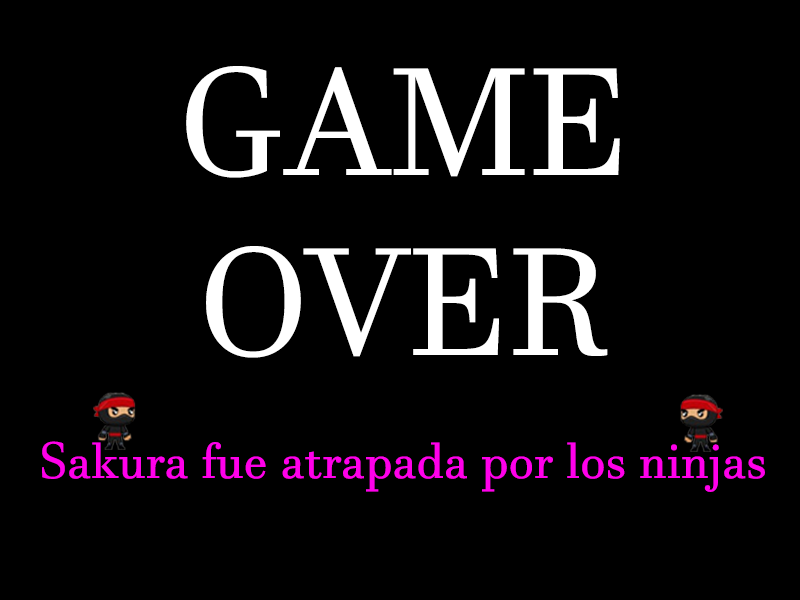
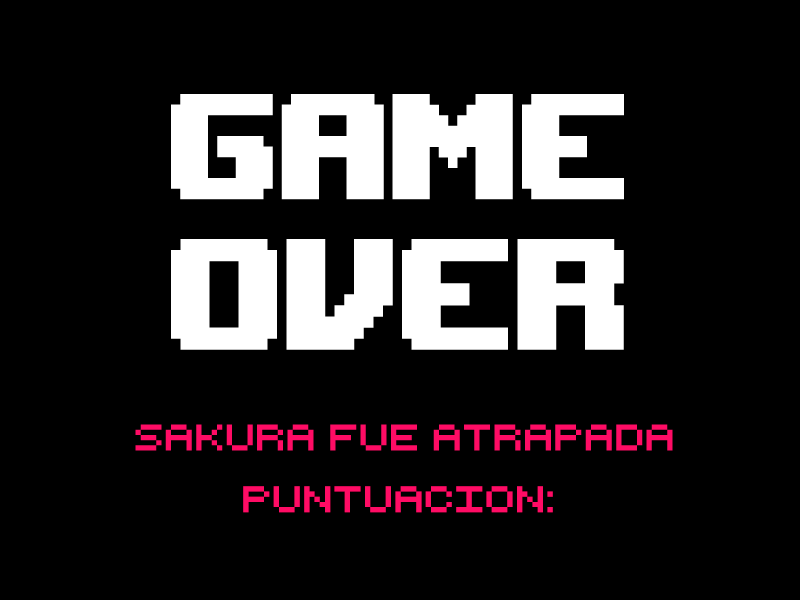
Change details

Changed region(s): [[0.0312, 0.63, 0.9688, 0.87], [0.1875, 0.09, 0.7812, 0.36], [0.1875, 0.39, 0.7812, 0.6]]

diff --git a/src/juego/Juego.java b/src/juego/Juego.java
@@ -15,12 +15,12 @@ public class Juego extends InterfaceJuego {
 	private Entorno entorno;
 	private Calle[] calles;
 	private Casa[] casas;
-	private Sakura sakura;
 	private Ninja[] ninjas;
+	private Sakura sakura;
 	private Rasengan rasengan;
 	private Casa casaDelPedido;
-	private int numeroCasaDelPedido;
-	private Random numeroRandom;
+	private int numCasaDelPedido;
+	private Random numRandom;
 	private int puntos;
 	private int ninjasEliminados;
 	private Image fondo;
@@ -69,94 +69,96 @@ public class Juego extends InterfaceJuego {
 
 		// Creacion de calles y casas
 		calles = new Calle[7];
-		int k = 0;
-		double xx = entorno.ancho() / 2;
-		int yy = entorno.alto() / 5;
-		int ancho = entorno.ancho();
-		int alto = 40;
+		int calle = 0;
+		double xCalle = entorno.ancho() / 2;
+		int yCalle = entorno.alto() / 5;
+		int anchoCalle = entorno.ancho();
+		int altoCalle = 40;
+
 		casas = new Casa[41];
+		int casa = 0;
 		int xCasa = 200;
 		int yCasa = 40;
-		int g = 0;
+		
 		for (int j = 0; j < calles.length; j++) {
-			calles[k++] = new Calle(xx, yy, ancho, alto);
+			calles[calle++] = new Calle(xCalle, yCalle, anchoCalle, altoCalle);
 
-			if (k == 1) {
-				yy = entorno.alto() / 2;
-				for (int c = 0; c < 3; c++) {
-					casas[g++] = new Casa(c, xCasa, yy - 230, Math.PI);
+			if (calle == 1) {
+				yCalle = entorno.alto() / 2;
+				for (int numCasa = 0; numCasa < 3; numCasa++) {
+					casas[casa++] = new Casa(numCasa, xCasa, yCalle - 230, Math.PI);
 					xCasa += 200;
 				}
 				xCasa = 200;
 				for (int d = 3; d < 6; d++) {
-					casas[g++] = new Casa(d, xCasa, yy - 50, Math.PI);
+					casas[casa++] = new Casa(d, xCasa, yCalle - 50, Math.PI);
 					xCasa += 200;
 				}
 				xCasa = 200;
 				for (int e = 6; e < 9; e++) {
-					casas[g++] = new Casa(e, xCasa, yy + 130, Math.PI);
+					casas[casa++] = new Casa(e, xCasa, yCalle + 130, Math.PI);
 					xCasa += 200;
 				}
 
 			}
-			if (k == 2) {
-				yy = entorno.alto() - entorno.alto() / 5;
+			if (calle == 2) {
+				yCalle = entorno.alto() - entorno.alto() / 5;
 			}
-			if (k == 3 || k == 4 || k == 5 || k == 6) {
+			if (calle == 3 || calle == 4 || calle == 5 || calle == 6) {
 
-				yy = entorno.alto() / 2;
-				ancho = 40;
-				alto = entorno.alto();
+				yCalle = entorno.alto() / 2;
+				anchoCalle = 40;
+				altoCalle = entorno.alto();
 
-				if (k == 3) {
-					xx = entorno.ancho() / 8;
+				if (calle == 3) {
+					xCalle = entorno.ancho() / 8;
 					for (int f = 9; f < 13; f++) {
-						casas[g++] = new Casa(f, xx - 50, yCasa, Math.PI / 2);
+						casas[casa++] = new Casa(f, xCalle - 50, yCasa, Math.PI / 2);
 						yCasa += 170;
 					}
 					yCasa = 40;
 					for (int h = 13; h < 17; h++) {
-						casas[g++] = new Casa(h, xx + 50, yCasa, Math.PI / 2);
+						casas[casa++] = new Casa(h, xCalle + 50, yCasa, Math.PI / 2);
 						yCasa += 170;
 					}
 					yCasa = 40;
 
 				}
-				if (k == 4) {
-					xx = entorno.ancho() / 2.66;
+				if (calle == 4) {
+					xCalle = entorno.ancho() / 2.66;
 					for (int l = 17; l < 21; l++) {
-						casas[g++] = new Casa(l, xx - 50, yCasa, Math.PI / 2);
+						casas[casa++] = new Casa(l, xCalle - 50, yCasa, Math.PI / 2);
 						yCasa += 165;
 					}
 					yCasa = 40;
 					for (int m = 21; m < 25; m++) {
-						casas[g++] = new Casa(m, xx + 50, yCasa, Math.PI / 2);
+						casas[casa++] = new Casa(m, xCalle + 50, yCasa, Math.PI / 2);
 						yCasa += 165;
 					}
 					yCasa = 40;
 				}
-				if (k == 5) {
-					xx = entorno.ancho() - entorno.ancho() / 2.66;
+				if (calle == 5) {
+					xCalle = entorno.ancho() - entorno.ancho() / 2.66;
 					for (int l = 25; l < 29; l++) {
-						casas[g++] = new Casa(l, xx - 50, yCasa, Math.PI / 2);
+						casas[casa++] = new Casa(l, xCalle - 50, yCasa, Math.PI / 2);
 						yCasa += 165;
 					}
 					yCasa = 40;
 					for (int m = 29; m < 33; m++) {
-						casas[g++] = new Casa(m, xx + 50, yCasa, Math.PI / 2);
+						casas[casa++] = new Casa(m, xCalle + 50, yCasa, Math.PI / 2);
 						yCasa += 165;
 					}
 					yCasa = 40;
 				}
-				if (k == 6) {
-					xx = entorno.ancho() - entorno.ancho() / 8;
+				if (calle == 6) {
+					xCalle = entorno.ancho() - entorno.ancho() / 8;
 					for (int q = 33; q < 37; q++) {
-						casas[g++] = new Casa(q, xx - 50, yCasa, Math.PI / 2);
+						casas[casa++] = new Casa(q, xCalle - 50, yCasa, Math.PI / 2);
 						yCasa += 165;
 					}
 					yCasa = 40;
 					for (int w = 37; w < 41; w++) {
-						casas[g++] = new Casa(w, xx + 50, yCasa, Math.PI / 2);
+						casas[casa++] = new Casa(w, xCalle + 50, yCasa, Math.PI / 2);
 						yCasa += 165;
 					}
 				}
@@ -165,9 +167,9 @@ public class Juego extends InterfaceJuego {
 			lineasCalle = Herramientas.cargarImagen("lineasCalle.png");
 			arboles = Herramientas.cargarImagen("arboles.png");
 		}
-		numeroRandom = new Random();
-		numeroCasaDelPedido = numeroRandom.nextInt(casas.length);
-		casaDelPedido = casas[numeroCasaDelPedido];
+		numRandom = new Random();
+		numCasaDelPedido = numRandom.nextInt(casas.length);
+		casaDelPedido = casas[numCasaDelPedido];
 		imagenGameOver = Herramientas.cargarImagen("gameover.png");
 
 		// Inicializar lo que haga falta para el juego
@@ -266,8 +268,8 @@ public class Juego extends InterfaceJuego {
 			}
 		}
 		if (sakura.llegoACasaDelPedido(casaDelPedido)) {
-			numeroCasaDelPedido = numeroRandom.nextInt(casas.length);
-			casaDelPedido = casas[numeroCasaDelPedido];
+			numCasaDelPedido = numRandom.nextInt(casas.length);
+			casaDelPedido = casas[numCasaDelPedido];
 			puntos += 5;
 			cantidadDeRasengans = 3;
 			ninjaQueReaparecera = 0;
@@ -292,15 +294,15 @@ public class Juego extends InterfaceJuego {
 
 		entorno.dibujarImagen(arboles, entorno.ancho() / 2, entorno.alto() / 2, 0);
 		casaDelPedido.marcar(entorno);
-		entorno.cambiarFont("sans", entorno.alto() / 33, Color.RED);
+		entorno.cambiarFont("consolas", entorno.alto() / 28, Color.BLACK);
 		entorno.escribirTexto("Rasengans: " + cantidadDeRasengans, entorno.ancho() / 78, entorno.alto() / 15);
-		entorno.escribirTexto("Pts: " + puntos, entorno.ancho() - entorno.ancho() / 11, entorno.alto() / 35);
+		entorno.escribirTexto("Pts: " + puntos, entorno.ancho() - entorno.ancho() / 9, entorno.alto() / 35);
 		entorno.escribirTexto("Kills: " + ninjasEliminados, entorno.ancho() / 80, entorno.alto() / 35);
 
 		if (finDelJuego) {
 			entorno.dibujarImagen(imagenGameOver, entorno.ancho() / 2, entorno.alto() / 2, 0);
-			entorno.cambiarFont("sans", entorno.alto() / 33, Color.CYAN);
-			entorno.escribirTexto("Puntuacion Total: " + puntos, entorno.ancho() / 2.5, entorno.alto() - 90);
+			entorno.cambiarFont("consolas", entorno.alto() / 16, new Color(255, 12, 101));
+			entorno.escribirTexto("" + puntos, entorno.ancho() / 1.4, entorno.alto() - 90);
 		}
 
 		// Procesamiento de un instante de tiempo

diff --git a/src/juego/Casa.java b/src/juego/Casa.java
@@ -13,7 +13,7 @@ public class Casa {
 	private double tamaño;
 	private double direccion;
 	private Image casaRoja;
-	private Image casaAzul;
+	private Image casaMarron;
 	private Image flecha;
 
 	public Casa(int numero, double x, double y, double direccion) {
@@ -23,7 +23,7 @@ public class Casa {
 		this.y = y;
 		this.flecha = Herramientas.cargarImagen("flecha.gif");
 		this.casaRoja = Herramientas.cargarImagen("casaRoja.png");
-		this.casaAzul = Herramientas.cargarImagen("casaAzul.png");
+		this.casaMarron = Herramientas.cargarImagen("casaMarron.png");
 		this.tamaño = casaRoja.getWidth(null);
 	}
 
@@ -31,7 +31,7 @@ public class Casa {
 		if (this.numero % 2 == 0) {
 			e.dibujarImagen(casaRoja, x, y, direccion, 0.8);
 		} else {
-			e.dibujarImagen(casaAzul, x, y, direccion, 0.8);
+			e.dibujarImagen(casaMarron, x, y, direccion, 0.8);
 		}
 	}
 
